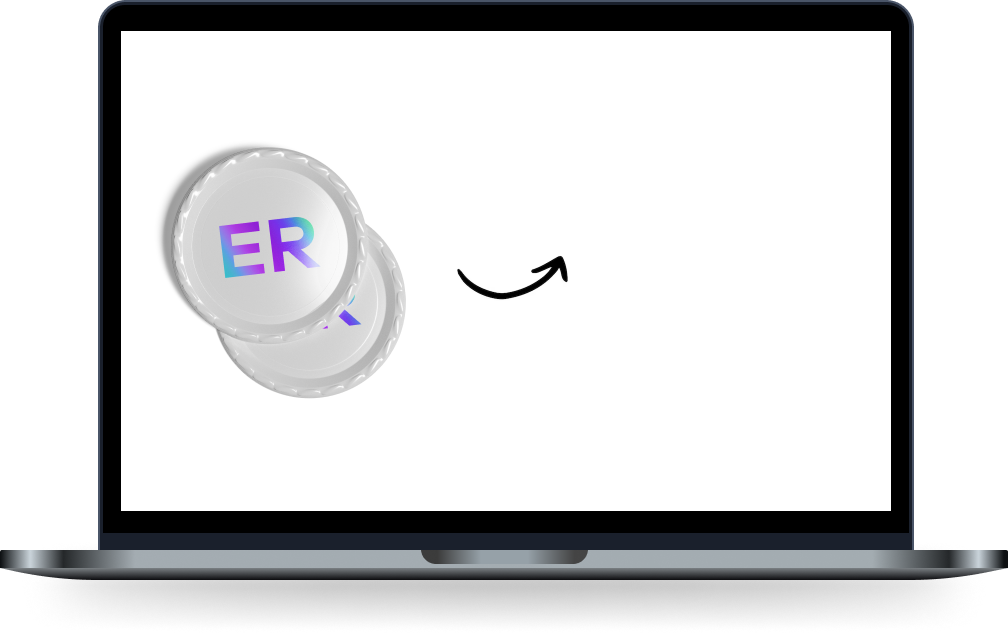
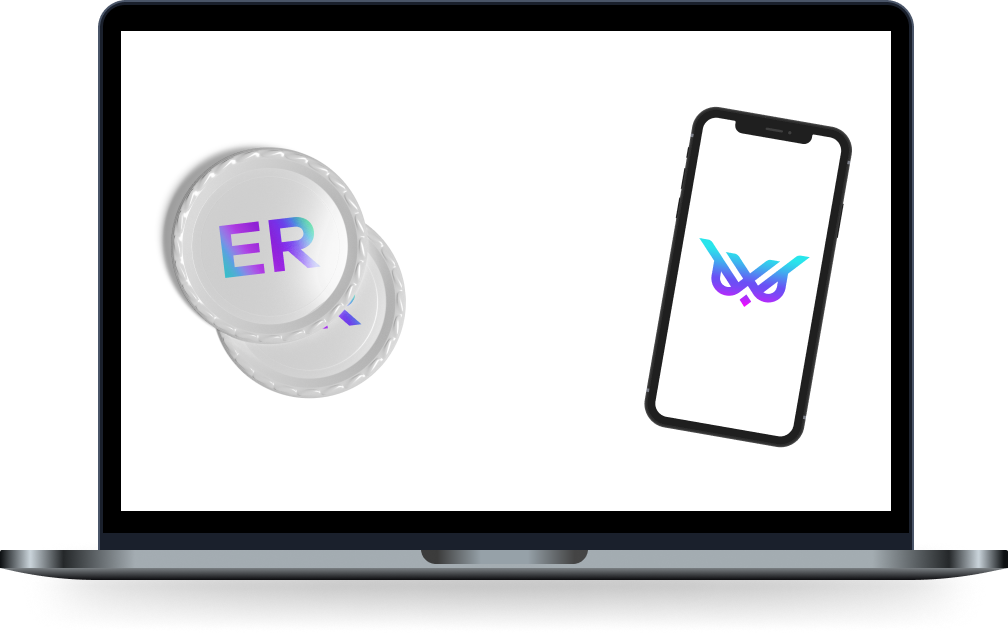
redesign some components

Changed region(s): [[0.6151, 0.1496, 0.8611, 0.7181], [0.4613, 0.389, 0.5843, 0.4787], [0.4306, 0.4189, 0.4613, 0.4488]]

diff --git a/src/routes/root.tsx b/src/routes/root.tsx
@@ -1,11 +1,6 @@
 import Navbar from "../components/Navbar";
 import HeroSvg from "../assets/hero.png";
-// import EllipseSvg from "../assets/ellipse.svg";
-// import EllipseLeftSvg from "../assets/ellipse2.svg";
 
-// import BookSvg from "../assets/book.svg";
-// import KeyHoleSvg from "../assets/keyhole.svg";
-// import GoalSvg from "../assets/goal.svg";
 import TextSvg from "../assets/text.svg";
 import ValueSvg from "../assets/value.svg";
 import JacketSvg from "../assets/jacket.svg";
@@ -13,12 +8,13 @@ import DigitalPassSvg from "../assets/digital-pass.svg";
 import Figure1 from "../assets/figure1.svg";
 import Figure2 from "../assets/figure2.svg";
 import Figure3 from "../assets/figure3.svg";
+import Figure4 from "../assets/figure4.svg";
 
 import GiveawaySvg from "../assets/giveaway.svg";
 import RoadMapSvg from "../assets/roadmap.svg";
-import TeamPng from "../assets/team.png";
 
 import Footer from "../components/Footer";
+import { Link } from "react-router-dom";
 
 const Root = () => {
   return (
@@ -29,8 +25,6 @@ const Root = () => {
         <h1 className="w-full font-semibold lg:text-8xl md:text-7xl text-4xl absolute text-center top-1/4 z-10">
           Web3 Augmented <br /> Cognition Platform
         </h1>
-        {/* <img className="absolute right-0 -top-1/4" src={EllipseSvg} alt="" /> */}
-        {/* <img className="absolute left-0 top-0" src={EllipseLeftSvg} alt="" /> */}
       </div>
       <section className="max-w-[1440px] mx-auto lg:px-16 px-5 relative -top-14">
         <h2 className="md:text-5xl text-3xl text-center mb-8">Learn Course</h2>
@@ -41,30 +35,6 @@ const Root = () => {
           are here to empower you to overcome these challenges, embrace
           continuous learning, and bridge those gaps with confidence.
         </p>
-
-        {/* <div className="flex md:flex-row flex-col justify-between md:space-x-8 md:space-y-0 space-y-4 tracking-wider">
-          <div className="bg-white rounded-lg p-8 ">
-            <img className="w-14 h-14" src={BookSvg} alt="" />
-            <p className=" mt-9">
-              Build the basics while learning and progress your foundation with
-              more advanced STEM courses.
-            </p>
-          </div>
-          <div className="bg-white rounded-lg p-8">
-            <img className="w-14 h-14" src={KeyHoleSvg} alt="" />
-            <p className="mt-9">
-              Our approach is centered around two key pillars: knowledge
-              acquisition and active application.
-            </p>
-          </div>
-          <div className="bg-white rounded-lg p-8">
-            <img className="w-14 h-14" src={GoalSvg} alt="" />
-            <p className="mt-9">
-              Our goal is to provide entirely different experience for learning
-              material.
-            </p>
-          </div>
-        </div> */}
       </section>
       <section className="flex flex-col items-center mx-auto lg:px-16 px-5 mt-32">
         <img className="max-w-[348px] w-full" src={TextSvg} alt="" />
@@ -129,25 +99,27 @@ const Root = () => {
           be able to compete with others in a weekly lottery
         </p>
         <div className="flex justify-between flex-wrap">
-          <div className="md:m-0 m-6 flex items-center max-w-[max-content] space-x-16 rounded-lg p-3 bg-white">
+          <div className="md:m-0 shadow-lg m-6 flex items-center max-w-[max-content] space-x-16 rounded-lg p-4 bg-white">
             <img src={Figure1} alt="" />
             <span className="font-semibold text-3xl">AI</span>
           </div>
-          <div className="md:m-0 m-6 flex items-center max-w-[max-content] space-x-16 rounded-lg p-3 bg-white">
+          <div className="md:m-0 shadow-lg m-6 flex items-center max-w-[max-content] space-x-16 rounded-lg p-4 bg-white">
             <img src={Figure2} alt="" />
             <span className="font-semibold text-3xl">Blockchain</span>
           </div>
-          <div className="md:m-0 m-6 flex items-center max-w-[max-content] space-x-16 rounded-lg p-3 bg-white">
+          <div className="md:m-0 shadow-lg m-6 flex items-center max-w-[max-content] space-x-16 rounded-lg p-4 bg-white">
             <img src={Figure3} alt="" />
             <span className="font-semibold text-3xl">Math</span>
           </div>
-          <div className="md:m-0 m-6 flex items-center max-w-[max-content] space-x-16 rounded-lg p-3 bg-white">
-            <img src={Figure3} alt="" />
+          <div className="md:m-0 shadow-lg m-6 flex items-center max-w-[max-content] space-x-16 rounded-lg p-4 bg-white">
+            <img src={Figure4} alt="" />
             <span className="font-semibold text-3xl">Games</span>
           </div>
         </div>
         <div>
-          <img className="ml-auto my-10" src={GiveawaySvg} alt="" />
+          <Link to="https://knowledger.org/wiz">
+            <img className="ml-auto my-10" src={GiveawaySvg} alt="" />
+          </Link>
         </div>
       </section>
       <section className="rounded-3xl bg-black">
@@ -155,13 +127,6 @@ const Root = () => {
           Roadmap
         </h2>
         <img className="max-w-6xl w-full mx-auto p-8" src={RoadMapSvg} alt="" />
-      </section>
-
-      <section>
-        <h2 className="max-w-[1440px] text-5xl mb-8 font-semibold mx-auto lg:px-16 px-5 mt-32">
-          Team
-        </h2>
-        <img className="" src={TeamPng} alt="" />
       </section>
       <Footer />
     </div>

diff --git a/src/routes/digital-pass.tsx b/src/routes/digital-pass.tsx
@@ -45,26 +45,29 @@ const DigitalPass = () => {
         <h2 className="text-center md:text-4xl  text-3xl mb-10">
           Upgrade levels and foster features
         </h2>
+        <div></div>
+
         <div className="md:flex justify-between md:space-x-5 md:space-y-0 space-y-8">
-          <div className="bg-[#EBEAF2] p-10 rounded-xl md:w-1/2">
-            <p className="md:text-xl">
-              <b>Functions</b> <br /> <br />
-              <b> Subject based.</b> Subject specific, which means that owning
-              "Chemistry" DP will only give me access to learn Chemistry
-              courses. <br /> <br /> <b>Level up. </b> DP will have level
-              gradation based on the subject. Students will be able to upgrade
-              this attribute by spending their earned EdRes Points. Upgrading
-              the level means that the student will now have access to courses
-              of the next level(in addition to courses of previous levels)
-            </p>
-          </div>
-          <div className="bg-[#FBE9E7] p-10 rounded-xl md:w-1/2">
+          <div className="bg-[#EBEAF2] p-10 rounded-xl ">
             <p className="md:text-xl">
               <b>Attributes</b> <br /> <br />
-              <b>Badges.</b> Badges are earned when successfully completing
-              courses from accredited institutions. Badges can then be placed on
-              the Digital Pass. <b>Diploma (store info and GPA).</b> <br />
+              <b>Subject.</b> Subject specific, which means that owning
+              "Chemistry" DP will only give me access to learn Chemistry
+              courses.
               <br />
+              <br />
+              <b>Level. </b>
+              DP will have level gradation based on the subject. Students will
+              be able to upgrade this attribute by spending their earned EdRes
+              <br />
+              <br />
+              <b>Points. </b>
+              Upgrading the level means that the student will now have access to
+              courses of the next level(in addition to courses of previous
+              levels)
+              <br />
+              <br />
+              <b>GPA. </b>
               DP will have level gradation based on the subject. DP is
               essentially our students' diploma which contains all the grades
               for the topics inside courses that were completed.

diff --git a/src/components/Navbar.tsx b/src/components/Navbar.tsx
@@ -25,12 +25,12 @@ const Navbar = () => {
           <Link to="/learn">Learn course</Link>
           <Link to="/earn-points">Earn points</Link>
           <Link to="/digital-pass">Play DP</Link>
-          <Link to="/">WIZ</Link>
+          <Link to="https://knowledger.org/wiz">WIZ</Link>
           <Link to="/share-knowledge">Share Knowledge</Link>
           <Link to="/research-and-development">R&D</Link>
         </div>
         <Link
-          to="/"
+          to="https://www.knowledger.org/signUp"
           className="px-9 py-3 text-white bg-[#6A4FF5] rounded-md lg:block hidden"
         >
           Sign up
@@ -57,11 +57,11 @@ const Navbar = () => {
           <Link to="/learn">Learn course</Link>
           <Link to="/earn-points">Earn points</Link>
           <Link to="/digital-pass">Play DP</Link>
-          <Link to="/">WIZ</Link>
+          <Link to="https://knowledger.org/wiz">WIZ</Link>
           <Link to="/share-knowledge">Share Knowledge</Link>
           <Link to="/research-and-development">R&D</Link>
           <Link
-            to="/"
+            to="https://www.knowledger.org/signUp"
             className="px-9 py-3 text-white bg-[#6A4FF5] rounded-md w-max"
           >
             Sign up

diff --git a/index.html b/index.html
@@ -4,7 +4,7 @@
     <meta charset="UTF-8" />
     <link rel="icon" type="image/svg+xml" href="/vite.svg" />
     <meta name="viewport" content="width=device-width, initial-scale=1.0" />
-    <title>Knowledger</title>
+    <title>Knowledger - Augmented Cognition Platform</title>
   </head>
   <body>
     <div id="root"></div>
